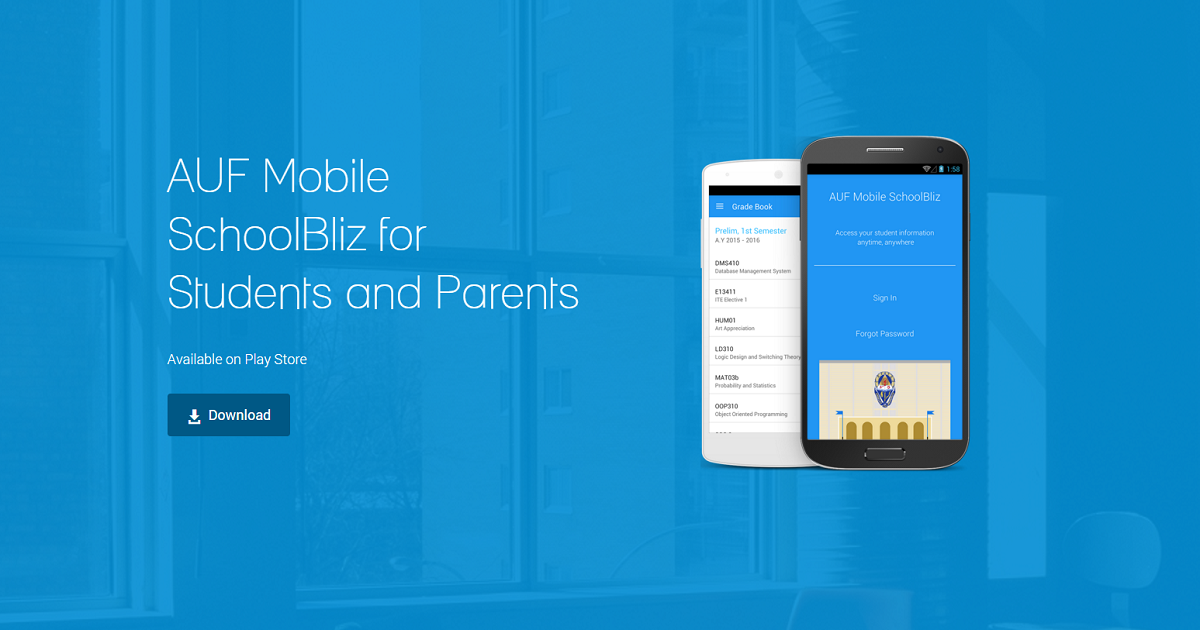
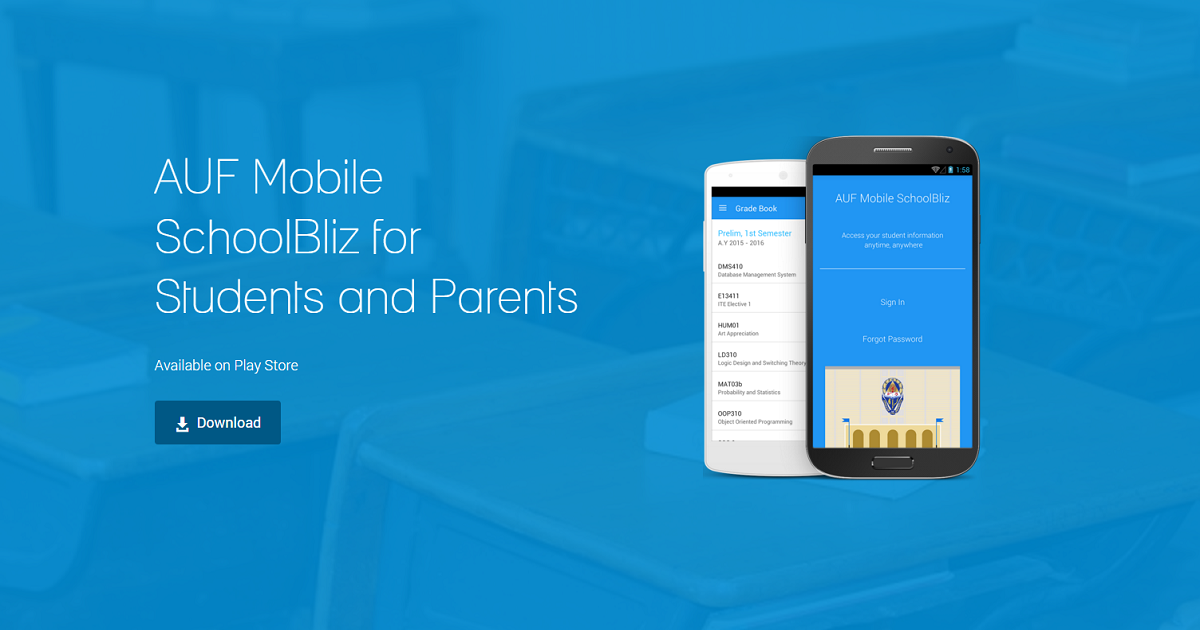
Updated images

diff --git a/index.html b/index.html
@@ -10,7 +10,7 @@
 <meta property="og:type"               content="product" />
 <meta property="og:title"              content="AUF Mobile SchoolBliz Landing Page" />
 <meta property="og:description"        content="An app for AUF students and parents" />
-<meta property="og:image"              content="http://danieljohngomez.github.io/aufmsb/images/facebook-opengraph.png" />
+<meta property="og:image"              content="images/facebook-opengraph.png" />
 
 <title>AUF Mobile SchoolBliz</title>
 
@@ -93,8 +93,6 @@
 				<span class="icon-bar"></span>
 				<span class="icon-bar"></span>
 				</button>
-
-				<a class="navbar-brand" href="#"><img src="images/logo-black.png" alt=""></a>
 
 			</div>
 
@@ -359,7 +357,7 @@
 		<!-- PHONES IMAGE -->
 		<div class="col-md-6 wow fadeInRight animated" data-wow-offset="10" data-wow-duration="1.5s">
 			<div class="phone-image">
-				<img src="images/2-iphone-left.png" alt="">
+				<img src="images/notification.png" alt="">
 			</div>
 		</div>
 
@@ -553,7 +551,7 @@
 			</div>
 
 			<div class="shot">
-				<!-- <a href="images/screenshots/1.jpg" data-lightbox-gallery="screenshots-gallery"><img src="images/screenshots/1.jpg" alt="Screenshot"></a> -->
+				<a href="images/screenshots/1.jpg" data-lightbox-gallery="screenshots-gallery"><img src="images/screenshots/notification.png" alt="Screenshot"></a>
 			</div>
 
 			<div class="shot">
